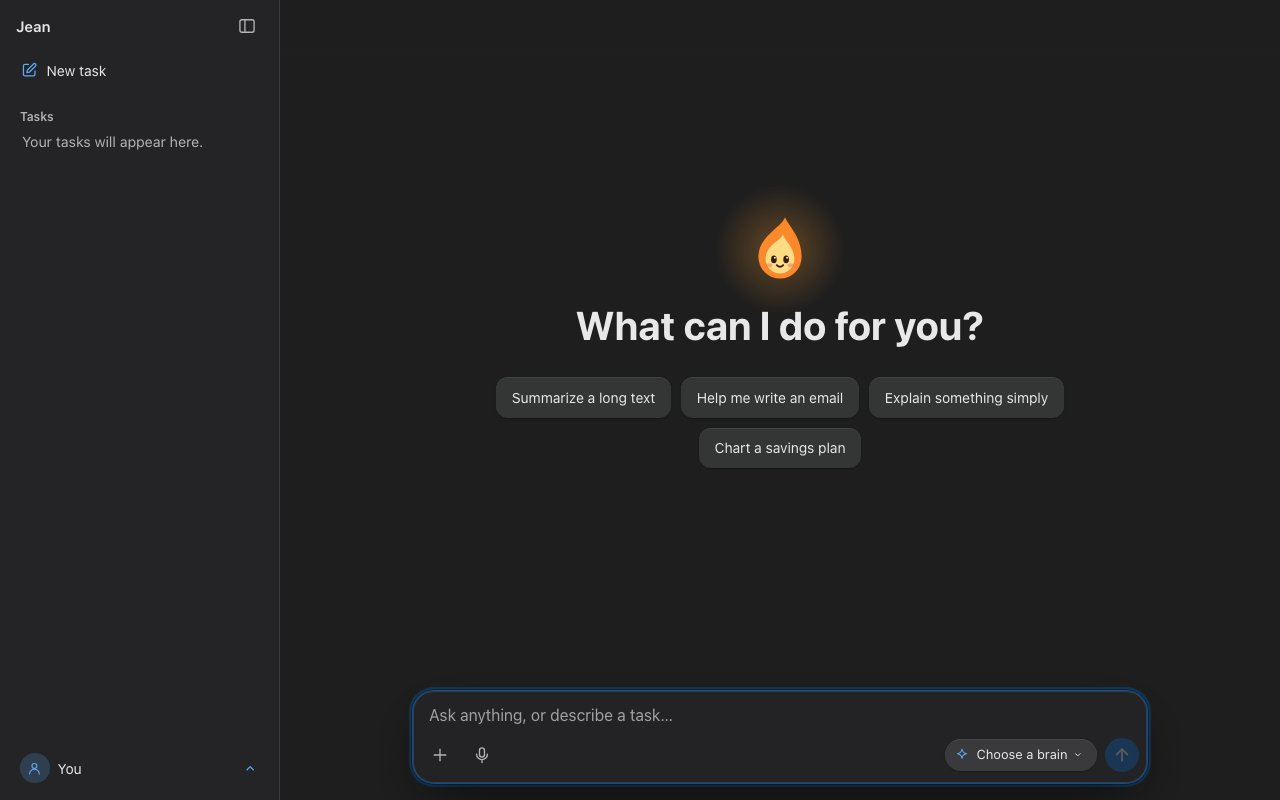
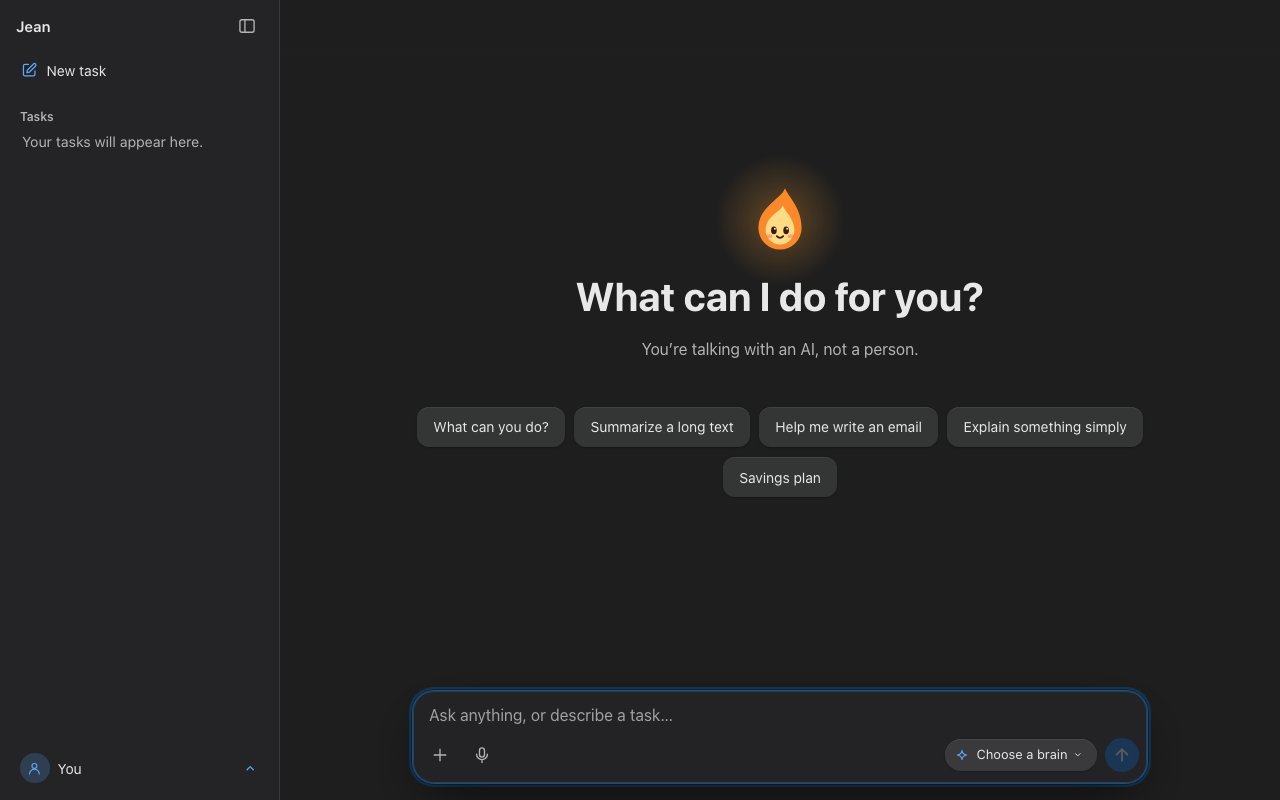
:sparkles: Before anything is asked, the welcome says the user is talking with an AI, not a person, under its question and in every language, as the EU AI Act's art. 50(1) and (5) ask at the first interaction, since Jean has a person's name and a face; the box has the line as its description, so a s

Changed region(s): [[0.3125, 0.2188, 0.9062, 0.625]]

diff --git a/test/talk.spec.js b/test/talk.spec.js
@@ -3,6 +3,7 @@
 // the conversation, in the address (D137), a reload comes back to the line being read, and an
 // earlier conversation opens at its end. A request whose connection drops before its answer starts
 // is asked again (D202), and a key connects though its service is too busy to list its models.
+// Before anything is asked, the welcome says the user is talking with an AI (D273).
 import { test, expect } from '@playwright/test'
 import { start, connectFakeBrain, ask, openSettings, closeSettings, openTasks, BRAIN_URL } from './helpers.js'
 
@@ -21,6 +22,21 @@ test('an answer, then its follow-ups as buttons', async ({ page }) => {
   await followUps.first().click()
   await expect(page.locator('.msg-user')).toHaveCount(2)
   await expect(page.locator('.msg-user').last()).toHaveText('Show it as a chart')
+})
+
+test('before anything is asked, the welcome says the user is talking with an AI, and the box says it to a screen reader (D273)', async ({ page }) => {
+  const said = { en: 'You’re talking with an AI, not a person.', ar: 'هذه محادثة مع ذكاء اصطناعي، لا مع إنسان.', ja: '会話の相手は人間ではなく、AIです。' }
+  for (const [lang, text] of Object.entries(said)) {
+    await start(page, lang)
+    await expect(page.locator('.welcome hgroup p')).toHaveText(text)
+    await expect(page.locator('.welcome hgroup p')).toBeInViewport()
+    await expect(page.locator('#prompt')).toHaveAccessibleDescription(text)
+  }
+  // Once asked, the conversation takes its place.
+  await connectFakeBrain(page)
+  await ask(page, 'Explain photosynthesis in simple words')
+  await expect(page.locator('.msg-jean .prose').last()).toContainText('Here is what I found')
+  await expect(page.locator('#prompt')).not.toHaveAccessibleDescription(said.ja)
 })
 
 test('a request whose connection drops before its answer starts is asked again after a moment, saying so (D202)', async ({ page }) => {

diff --git a/app/ui/shell.js b/app/ui/shell.js
@@ -139,10 +139,11 @@ function offerAside() {
   </aside>`
 }
 
+// Before anything is asked, it says the user is talking with an AI (EU AI Act, art. 50; D273).
 function welcome() {
   return html`<section class="welcome">
     <app-persona></app-persona>
-    <h1 class="hero-question">${t('welcome.question')}</h1>
+    <hgroup><h1 class="hero-question">${t('welcome.question')}</h1><p class="muted" id="welcome-ai">${t('welcome.ai')}</p></hgroup>
     <ul class="starters">${STARTERS.map((key) => html`<li>
       <button class="starter" @click=${() => { app.draft.value = t(`starter.${key}.prompt`); focusComposer() }}>${t(`starter.${key}`)}</button>
     </li>`)}</ul>

diff --git a/app/ui/composer.js b/app/ui/composer.js
@@ -50,7 +50,7 @@ class Composer extends Element {
               @click=${() => removeAttachment(item.key)}>${icons.close}</button>
           </li>`)}</ul>` : nothing}
         <label class="visually-hidden" for="prompt">${t('composer.label')}</label>
-        <textarea id="prompt" rows="1" dir="auto" enterkeyhint="send"
+        <textarea id="prompt" rows="1" dir="auto" enterkeyhint="send" aria-describedby="welcome-ai"
           placeholder=${status || t('composer.placeholder')}
           .value=${current(app.draft.value)}
           @input=${this.#input} @keydown=${this.#keydown} @paste=${this.#paste}

diff --git a/app/sw.js b/app/sw.js
@@ -1,6 +1,6 @@
 // Service worker: offline shell and per-capability caches (classic script).
 // VERSION is rewritten by scripts/manifest.js whenever any shipped file changes.
-const VERSION = 'b280db439572'
+const VERSION = '835b669245b9'
 const SHELL = `app-shell-${VERSION}`
 // Capability caches carry the version too: an update re-caches every unlocked capability,
 // copying unchanged files over, so old code is never served next to a new shell.

diff --git a/docs/decisions.md b/docs/decisions.md
@@ -138,6 +138,7 @@ A new decision takes the next number after the highest one here (D173), checked 
 - **D34 · The display face is Instrument Serif (OFL),** regular and italic Latin subsets of about 15 KB each; other scripts use the system font. *Rejected:* variable fonts with many axes.
 - **D73 · The room's warmth is one custom property, `--warmth`, set through CSSOM,** a step per discovery (the CSP blocks style attributes).
 - **D77 · D78 · Jean's persona is the little light:** a small flame with a face, one inline SVG animated with CSS from `data-presence`, decorative, wordless and genderless, kept out of the prompt. It is the app icon, and a project's colour (`--tint`) gives it its hue. *Rejected:* a mascot apart from the light; a character that talks; `hue-rotate()`.
+- **D273 · Before anything is asked, the welcome says the user is talking with an AI, not a person.** Under its question, which it joins in an `<hgroup>`, a line in the room's catalogue (`welcome.ai`) says it in the user's language, on every new task and whatever the assistant is called; the box has it as its description, so a screen reader hears it where the keyboard starts. *Why:* art. 50(1) of the AI Act (Regulation (EU) 2024/1689), applying since 2 August 2026 and not deferred by the Digital Omnibus (Regulation (EU) 2026/1744), has a system made to interact with people tell them they are interacting with an AI, unless that is obvious, and art. 50(5) asks for it clearly and distinguishably, at the latest at the first interaction, and accessibly (the Commission's guidelines: C(2026) 5054). Art. 2(12)'s exemption for free and open-source software leaves out art. 50, so Jean is in scope, and with a person's name (Jean, or the one a project's assistant is given) and a face (D77) it is not obvious. The line is about the user's side, so it never names the assistant (D25); where a language marks the user's gender, it says "this is a conversation with an AI". *Rejected:* "Jean is an AI" (the name changes, and some languages agree with it); the statement only in the page's description, the terms or Settings, where it isn't seen at the first interaction; a notice to dismiss, which is gone afterwards and costs a click before the first question; a mark on every answer, which the first load has no room for and the law doesn't ask for.
 - **D85 · D107 · D130 · D135 · Light or dark: Auto follows the device; Light or Dark stays put.** The choice belongs to the device (`app.theme` in `localStorage`, absent for Auto), applied before the first paint by an inline line allowed by its hash; ⌘⇧D switches, and switching back to what the device shows is Auto again. *Rejected:* keeping it in `settings.json` (read after the first paint, and carried to other devices); a three-way cycle on the key; `light-dark()`.
 - **D111 · D120 · D125 · D132 · D174 · Fifteen themes, each a style sheet over the room's, Human by default and first, and Make it yours.** `ui/style.css` is the room; each other theme (a "look" in code) is `ui/looks/<id>.css`, loaded when chosen, every rule under `:root[data-look='<id>']`, with light and dark palettes and system typefaces; `test/looks.test.js` checks AA contrast; trademarked names stay out of the UI, so the look after today's Mac is Human (D132). Jean starts in Human until the user picks a look, the room included; its sheet comes with the first paint, but the first-load budgets count only the sheets `index.html` links. The gallery shows Human first, then goes from the calmest look to the most playful. Make it yours adds an accent, a background, a text size, a typeface and the user's own CSS, as one constructed style sheet (`ui/touches.js`); that CSS starts from Jean's main hooks, commented out, the same in every language and with no notes (`ui/touches.css`, a plain file the dialogs read), saved only once changed. The look is in `settings.json`, and in `app.look` for the first paint. Depth's floor is drawn once and moved only by transforms. Going to another task or a new one (`turnPage()`) happens at once, with nothing over the page, after the page asked for before it, so the last one asked for shows. *Rejected:* web fonts per look; a 3D library; custom CSS in a `<style>` (needs `unsafe-inline`); the starter as a placeholder, which can't be uncommented, or as a string in the code, over the line budget; a style sheet per look in place of `style.css`; counting the default look's sheet in the first-load budgets; Pixel, a 1989 handheld's four greens; turning the page with a view transition, which a look staged (Depth swung the pages about its floor, the other way to an older task): the browser covers the whole document with a picture of it until the turn ends, so a click on the list was lost and the pointer turned into an arrow; forwarding those clicks, which left the arrow; a view transition of the conversation alone, which Chromium shows blank once it is long and scrolled down, and WebKit lacks; in Human, the Mac's three lights on sheets and panels, two of which did nothing (a close button like every other).
 - **D113 · D117 · D127 · D128 · D134 · D150 · D153 · D154 · D165 · D181 · D234 · D254 · Settings, and the drawer.** Settings is a menu beside the section open, in three groups (General, Brains, Appearance, Keyboard shortcuts; About you, then Connections, Web search, Skills, Routines and Computer once found, then Capabilities; Approvals, Your data), each list a rounded group of rows. Brains is one choice of who answers, Auto or a brain, then the ways to add one, one open at a time. Capabilities is a case of trophies: the light's rank (Spark, Candle, Lantern, Hearth, then Daylight) and a medal per capability that says how to find it. The drawer, after Manus: New task, which brings the keyboard to the box, a row per place found (Connections, Skills, Routines), the tasks under their heading, each with a ⋮ menu that holds Delete, whose button takes no room until the pointer is on the task, so its title shows whole (Tab stops once per task, ↑ ↓, Home and End go from task to task, ← → along it to its ⋮ button), and the user at the foot, whose menu holds Settings, About you, the language and the theme (as thumbnails; the menu stays open while they change), dark mode and what Jean can do. On a window at least 48rem wide the drawer stays open beside the conversation or is put away, as the user left it on that device (`app.sidebar`); Mail and Human start with it open. Opened or put away, it slides from the start edge, a view transition in which the conversation and the box move over as they will be. It scrolls without a bar of its own, and the page stops at its edges, without the bounce that showed what lay beyond. The UI calls a conversation a task. *Rejected:* dialogs of their own for brains, connections or what Jean knows (two places for one thing); a list of capability cards; points or secret trophies; tabs across the top; settings in the header; a delete button on each task, one slip from losing it; the ⋮ button hidden but in its place, which cut every title short, and a Tab stop of its own, which made going down the list twice as long; a scroll bar at the drawer's edge, which looked like a handle to drag and moved nothing; the conversation fading from its old layout into its new one as the drawer slides, two of it at once.

diff --git a/docs/product.md b/docs/product.md
@@ -32,7 +32,7 @@ These are i18n strings, so the UI words can change later at no cost. Folder name
 
 ## Progressive discovery
 
-Jean is learned the way *A Dark Room* is played: the first screen holds a single box ("What can I do for you?"), and capabilities show up when a situation calls for them.
+Jean is learned the way *A Dark Room* is played: the first screen holds a single box ("What can I do for you?", and under it "You’re talking with an AI, not a person.", D273), and capabilities show up when a situation calls for them.
 
 **How it works:**
 
